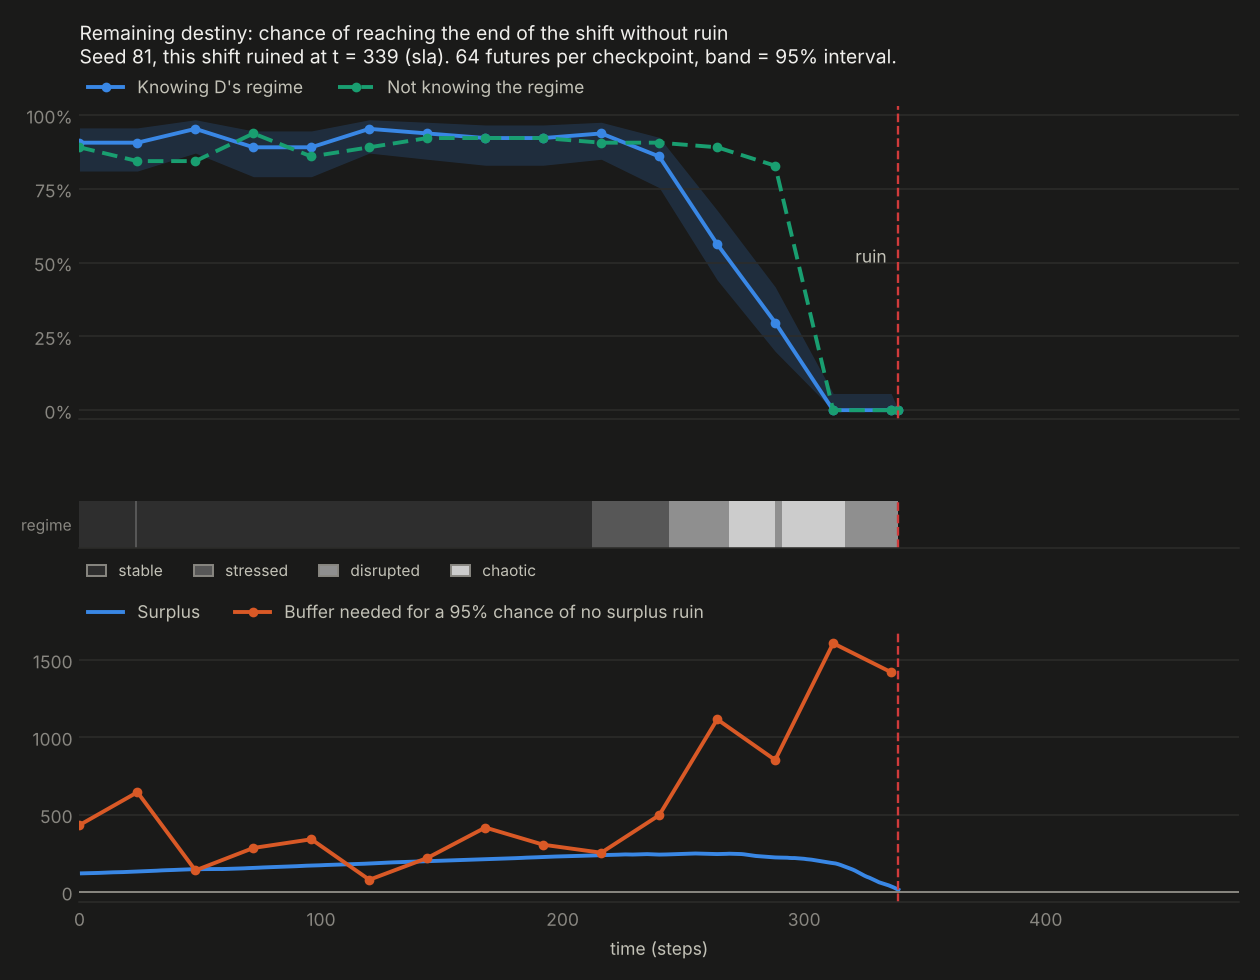
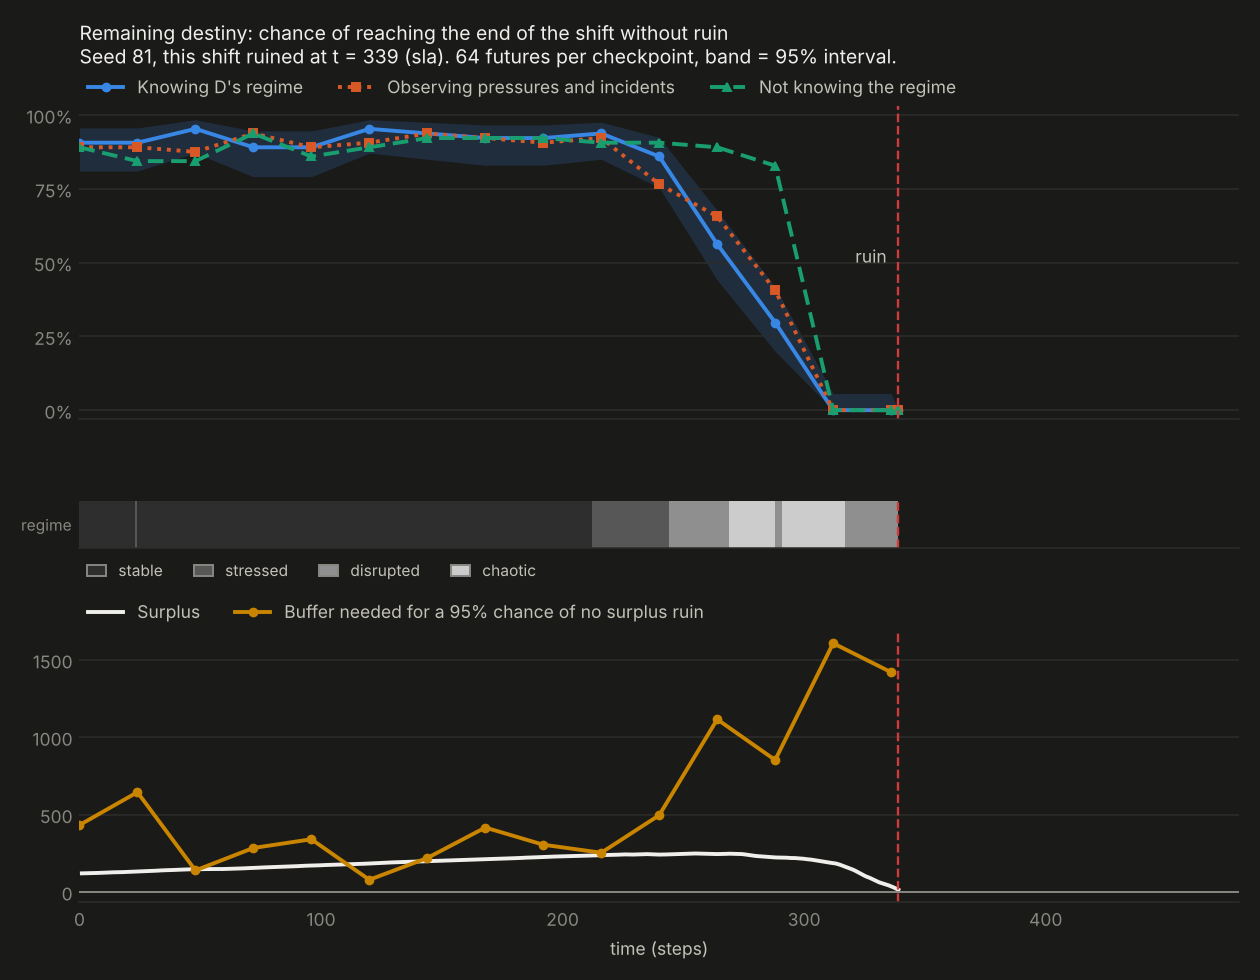
Release 0.9.0: chaotic organization, with the observer as 0.8.0
Document what the structure analysis found and release both versions.

- README: 'Chaotic Organization' with the measured results over 80 shifts
  against the memoryless version at equal mean disruption, the organization
  chart, and the steering table over 400 paths per setting. The destiny
  section now shows three views (knowing the regime, observing, knowing
  nothing) and says the seed-81 crisis was chosen to make the point.
- The regime does not change typical jams but fattens the tail: the jam
  that took a ruined shift averaged 486 cells, over half the grid. Corridors
  and persistent pressure zones do not form in this model, and steering
  reduces pile-up and loss without opening routes.
- RUIN.md records the measured organization; config_ex.md and the example
  config gain processes.avoidance and visualization.show_jams.
- Changelog entries for 0.8.0 (observer) and 0.9.0 (organization), including
  the measures I got wrong first and what corrected them; version bumped to
  0.9.0 in the package, pyproject and citation file.

Claude-Session: https://claude.ai/code/session_01DWymhUBNr4hdvSr4qznpJh

diff --git a/ruin/__init__.py b/ruin/__init__.py
@@ -1,1 +1,1 @@
-__version__ = "0.7.0"
+__version__ = "0.9.0"

diff --git a/README.md b/README.md
@@ -4,7 +4,7 @@
 
 [![Python](https://img.shields.io/badge/Python-3.11--3.14-blue.svg)](https://www.python.org/)
 [![License: MIT](https://img.shields.io/badge/License-MIT-yellow.svg)](https://opensource.org/licenses/MIT)
-[![v0.8.0](https://img.shields.io/badge/Version-v0.8.0-green.svg)](https://github.com/nezpik/ruin)
+[![v0.9.0](https://img.shields.io/badge/Version-v0.9.0-green.svg)](https://github.com/nezpik/ruin)
 
 RUIN is a research-grade framework for measuring when physical logistics systems run out of destiny. It translates quantitative finance concepts (ruin theory, jump-diffusion, Monte Carlo paths, VaR, Expected Shortfall, bootstrap confidence intervals) into a logistics language built around **physical uncertainty**, **service failure**, and **systemic collapse**.
 
@@ -212,7 +212,7 @@ Scored against what actually happened, every view beats a constant forecast (Bri
 `ruin risk` answers "how often does a shift like this ruin?". `ruin destiny` answers the question the project is named for: *how much destiny does this shift have left, right now?*
 
 ```bash
-uv run ruin destiny --config examples/urban_ruin_shift.yaml --seed 81 --blind --plot destiny.png
+uv run ruin destiny --config examples/urban_ruin_shift.yaml --seed 81 --blind --observer --incidents --plot destiny.png
 ```
 
 It follows one shift. Every 24 steps it freezes the exact present (every Q dot, every cell of the disruption field, the surplus, the SLA window, the hidden regime) and plays 64 independent futures forward from it. The share that reach the end of the shift without ruin is the shift's **remaining destiny** at that moment:
@@ -225,9 +225,60 @@ destiny(t) = P(no ruin before the horizon | everything known at t)
 
 This shift ran calm for over 200 steps at about 90% destiny. Then the regime escalated, from stressed to disrupted to chaotic, and the destiny fell to 56% at step 264 and 30% at step 288, then to nothing, and the shift ruined at step 339 by breaching the SLA. Look at the bottom panel: **surplus was at its highest (245) when the crisis began**. A surplus chart sees nothing wrong until it is too late; the buffer the shift would have needed for a 95% chance of safety jumped from about 250 to over 1,100.
 
-The `--blind` curve is destiny for someone who knows everything about D except which regime it is in (the regime is redrawn from its long-run mix). At step 264 it still says 89%, against 56% for someone who knows the regime, and at step 288 it says 83% against 30%. The gap is what knowing the regime is worth. An observer who sees the pressures sits between the two curves: in this shift the D-state label read CHAOTIC at step 264, a regime ahead of the truth.
+The chart shows three views of the same shift. The solid curve knows everything about D, including the hidden regime. The dotted curve is an observer who sees the pressures and an incident log (see [the observer](#seeing-the-regime-the-observer)). The dashed curve knows everything except the regime, which it redraws from its long-run mix. At step 264 the three say 56%, 66%, and 89%; at step 288, 30%, 41%, and 83%. The gap between the solid and dashed curves is what knowing the regime is worth, and the dotted curve shows how much of it can be had by watching.
+
+This is a crisis chosen to make the point. Over 32 unselected shifts the observer closes about a third of that gap in severe regimes, not the three quarters it appears to here.
 
 At `t = 0` the remaining destiny is one minus the ruin probability, so the two commands cross-check each other.
+
+---
+
+## Chaotic Organization
+
+Disruption is not only disorder. Blocked regions form, persist, merge, and clear; Q dots pile up in them; loss concentrates in them. `ruin organize` measures that structure.
+
+```bash
+uv run ruin organize --config examples/urban_ruin_shift.yaml                                     # a typical shift
+uv run ruin organize --config examples/urban_ruin_shift.yaml --seed 81 --plot organization.png   # one shift
+```
+
+![Organization of one shift](docs/organization_seed81.png)
+
+A **jam** is a connected region where disruption blocks at least half a cell (at least three cells). Jams are tracked from step to step, so each has a birth, a lifetime, a peak, merges and splits, and a record of the Q dots and loss that passed through it. Around them the recorder measures **pile-up** (Q-dot density inside jams over the same cells' own baseline), **diversion** (flow beside jams, which is not density: Q dots also queue there), **corridors** (persistent excess flow beside jams, kept only if it is statistically significant and at least three cells long), **pressure zones** and whether they stay put, **recovery** after a jam clears, and **ruin zones**: where loss concentrates and which jam carried it before ruin. Every comparison uses each cell's own quiet-step baseline, so the geometry of `D` is not mistaken for organization.
+
+Over 80 shifts, with the memoryless version of the scenario matched to the same realised mean disruption (± is the standard error across shifts):
+
+| | Memoryless disruption | Hidden regime (the reference) |
+| --- | --- | --- |
+| Jams born per 100 steps | 33.9 ± 0.2 | 31.0 ± 0.4 |
+| Median jam lifetime (steps) | 9.8 ± 0.1 | 9.0 ± 0.1 |
+| Largest jam in a shift (cells of 900) | 161 ± 4 | 230 ± 16 |
+| Q-dot pile-up inside jams (× baseline density) | 2.14 ± 0.01 | 2.21 ± 0.01 |
+| Flow beside jams (× baseline flow) | 0.92 ± 0.00 | 0.91 ± 0.00 |
+| Share of loss accrued inside jams | 48% | 53% |
+| Corridors per shift | 0.03 | 0.00 |
+| Do pressure hotspots stay put? (correlation between halves) | 0.11 | 0.12 |
+
+What it shows:
+
+- **Jams are everywhere and cheap to form.** About one new jam every three steps, living nine steps, occupying about a tenth of cell-steps and carrying over half the loss (five times what their size would suggest).
+- **The regime does not change typical jams. It fattens the tail.** Jam counts, lifetimes, pile-up, and recovery are the same in both worlds. What differs is the largest jam: 230 cells against 161. In the seven ruined shifts, the jam that took the shift averaged 486 cells, over half the grid, carried 57% (± 7%) of the loss in the 24 steps before ruin, and was born in a disrupted or chaotic regime in six of seven. Ruin here is not many local jams adding up; it is one system-wide gridlock.
+- **There is no spatial organization beyond jams.** Flow beside a jam is about 9% below baseline (Q dots queue, they do not funnel), corridors do not form, and pressure hotspots do not persist between the halves of a shift (correlation 0.12). Shocks land uniformly and trips are monotone, so there is nothing to route around and nowhere to route to. Corridors and persistent zones need real topology.
+- **Jams clear in about eight steps from their peak**, and Q dots flow back into the cleared cells at 1.45 times the usual density: a re-entry surge.
+- **Cause and effect are separated in time.** Delay is attributed to the origin of the disruption (each hidden regime, or feedback from late Q dots; the origins add up exactly to the field). Pooled over the shifts: stable 53%, stressed 25%, disrupted 15%, chaotic 8%, feedback 0.05%. But the loss accrues in different proportions (stable 34%, stressed 17%, disrupted 35%, chaotic 14%): the disrupted and chaotic regimes are 9% of the time, 22% of the delay, and 49% of the loss, because lateness compounds. Feedback from late Q dots is negligible at the configured weight.
+
+### Steering is worth something, though not routes
+
+`processes.avoidance` lets a Q dot weight its two forward moves by how blocked the next cell on each axis is (0 is the old behaviour). Over 400 paths each:
+
+| Steering (`processes.avoidance`) | Ruin probability (95% interval) | Mean loss (95% interval) | Expected shortfall | Pile-up inside jams |
+| --- | --- | --- | --- | --- |
+| 0 | 15.5% (12.3 to 19.4) | 183 (157 to 213) | 1267 | 2.22 |
+| 1 | 14.2% (11.2 to 18.0) | 155 (136 to 180) | 981 | 2.10 |
+| 3 | 12.8% (9.8 to 16.4) | 131 (112 to 150) | 803 | 1.81 |
+| 8 | 9.5% (7.0 to 12.8) | 104 (87 to 124) | 836 | 1.52 |
+
+Steering cuts pile-up and loss steadily: at the strongest setting mean loss falls by 43% (intervals 87 to 124 against 157 to 213) and ruin falls from 15.5% to 9.5%, though the ruin intervals overlap and it is the monotone trend across four settings that persuades. It does not open routes: flow beside jams stays between 0.90 and 0.95 of baseline and corridors stay at zero, because a Q dot with monotone trips can choose between its two forward moves but cannot detour. What steering buys is not getting stuck in a jam. This is rerouting with perfect local information at no cost; a real operator has delay and incomplete information, which is where the observer comes in.
 
 ---
 
@@ -371,7 +422,7 @@ Full definitions and deeper philosophy are in `RUIN.md`.
 
 ---
 
-## Current Architecture (v0.8.0)
+## Current Architecture (v0.9.0)
 
 ```
 ruin/
@@ -383,6 +434,11 @@ ruin/
 │   ├── probability_square.py   # Main engine: Q dots as arrays, one step of D
 │   ├── disruption_field.py     # Subcritical spread-and-decay field
 │   └── regime.py               # The hidden regime of D
+├── inference/
+│   └── observer.py             # Bayes filter over the hidden regime
+├── analysis/
+│   ├── organization.py         # Jam tracking, pile-up, corridors, zones, ruin zones
+│   └── report.py               # Aggregate report and the organization chart
 ├── simulation/
 │   └── agent_based.py
 ├── risk/
@@ -471,7 +527,7 @@ If you use RUIN, its concepts, terminology, code, or experimental outputs in aca
 
 Suggested citation:
 
-> Zouiti, Naji. RUIN: Ruin-probability Unified In Networks. v0.8.0, 2026.  
+> Zouiti, Naji. RUIN: Ruin-probability Unified In Networks. v0.9.0, 2026.  
 > GitHub: https://github.com/nezpik/ruin
 
 BibTeX:
@@ -481,7 +537,7 @@ BibTeX:
   author = {Zouiti, Naji},
   title = {RUIN: Ruin-probability Unified In Networks},
   year = {2026},
-  version = {0.8.0},
+  version = {0.9.0},
   url = {https://github.com/nezpik/ruin}
 }
 ```

diff --git a/CHANGELOG.md b/CHANGELOG.md
@@ -7,6 +7,164 @@ and this project adheres to [Semantic Versioning](https://semver.org/spec/v2.0.0
 
 ---
 
+## [0.9.0] - 2026-11
+
+**Chaotic organization**: the structure that forms when Q dots try to keep
+order in a chaotic D is now measured, with the findings that came out of it,
+an opt-in steering lever, and exact attribution of delay by origin. Everything
+new is off by default and the 0.8.0 model is reproduced exactly when it is.
+
+### Added
+
+- **`ruin organize`** (`ruin/analysis/organization.py`, `report.py`): a
+  `StructureRecorder` that watches the engine and measures
+  - **jams** (connected regions where disruption blocks at least half a cell, at
+    least three cells), tracked step to step with birth, lifetime, merges,
+    splits, peak extent, and the Q dots and loss that passed through them;
+  - **pile-up** (Q-dot density inside jams over each cell's own baseline);
+  - **diversion** and **corridors**, measured on *flow* rather than density
+    (Q dots also queue beside a jam, and queueing is not diversion), with a
+    significance test and a minimum of three cells;
+  - **pressure zones** and whether they persist between the halves of a shift;
+  - **recovery** (steps from peak to clear, flow back into cleared cells);
+  - **ruin zones** (loss concentration, the share accrued inside jams, and which
+    jam carried the loss in the 24 steps before ruin).
+
+  Every comparison uses a per-cell baseline from quiet steps (no jam within two
+  cells and none in the last eight steps), so the geometry of `D` is not read as
+  organization. `--plot` draws one shift: the jam timeline with the hidden
+  regime, where loss accrued with the ruin jam outlined, and cause against
+  effect. `run_trajectory` takes `recorder=`; `result["structure"]` holds the
+  summary.
+- **`processes.avoidance`** (default 0): a Q dot weights its two forward moves by
+  `exp(-avoidance * how blocked the next cell on that axis is)`. Bit-for-bit the
+  old model at 0.
+- **Attribution of delay by origin** (`run_trajectory(attribute_sources=True)`): a
+  parallel field per origin of disruption (each hidden regime level, or one
+  exogenous origin without regimes, plus feedback from late Q dots). The field
+  dynamics are linear, so the origins add up exactly to the field (tested every
+  step). Each step's field-induced delay is split among them by their share of
+  the intensity where each Q dot stands.
+- `loss_by_regime` (loss accrued while D was in each regime), always reported
+  when regimes are on.
+- `visualization.show_jams` outlines jams in the animation.
+- `ProbabilitySquare.fork` carries the origin fields.
+
+### What the analysis showed
+
+Over 80 shifts, against the memoryless version of the scenario matched to the
+same realised mean disruption:
+
+- **The regime does not change typical jams. It fattens the tail.** Jams born per
+  100 steps 31.0 against 33.9, median lifetime 9.0 against 9.8 steps, pile-up
+  2.21 against 2.14, recovery the same. The largest jam in a shift is 230 cells
+  against 161. In the seven ruined shifts the jam that took the shift averaged
+  486 cells (over half the grid), carried 57% (standard error 7%) of the loss in
+  the 24 steps before ruin, and was born in a disrupted or chaotic regime in six
+  of seven. Ruin here is one system-wide gridlock, not many local jams.
+- **Jams carry half the loss in a tenth of the space**: 53% of loss accrues
+  inside jam cells, which are about 11% of cell-steps (enrichment 5.0).
+- **There is no spatial organization beyond jams.** Flow beside jams is 0.91 of
+  baseline (Q dots queue, they do not funnel), no corridors form, and pressure
+  hotspots do not persist (correlation between halves 0.12). Shocks land
+  uniformly and trips are monotone.
+- **Cause and effect are separated in time.** Delay by origin: stable 53%,
+  stressed 25%, disrupted 15%, chaotic 8%, feedback 0.05%. Loss by regime when
+  it accrued: 34%, 17%, 35%, 14%. The disrupted and chaotic regimes are 9% of the
+  time, 22% of the delay, and 49% of the loss, because lateness compounds.
+  Feedback from late Q dots is negligible at the configured weight.
+- **Steering buys not getting stuck, not routes.** Over 400 paths per setting,
+  avoidance 0, 1, 3, 8: pile-up 2.22, 2.10, 1.81, 1.52; mean loss 183, 155, 131,
+  104 (a 43% fall, intervals 87 to 124 against 157 to 213); ruin probability
+  15.5%, 14.2%, 12.8%, 9.5% (intervals overlap; the monotone trend is the
+  evidence). Flow beside jams stays between 0.90 and 0.95 and corridors stay at
+  zero.
+
+### Process notes
+
+- The tests caught two flaws in my own measures. The baseline first included the
+  steps right after a jam clears, when traffic surges back, which inflated it and
+  understated the surge (1.47 instead of about 1.9); and a "null" hotspot test
+  that wandered inside a patch was correlated through geometry.
+- The first diversion and corridor measures used density and reported about 50
+  one- and two-cell "corridors" per shift, none distinguishable from chance, and
+  diversion did not respond to steering. Moving to flow, adding a significance
+  test, and requiring three cells gave a detector that says "none" when there is
+  none.
+
+### Known limits
+
+- Corridors and persistent pressure zones cannot form here: shocks are uniform,
+  trips are monotone, and a Q dot cannot detour. They need real topology.
+- Steering is perfect local information at no cost.
+- `shock_types` stays reserved: types have no mechanics, so attributing to them
+  would be arbitrary. Attribution is by hidden regime and by feedback.
+- Attribution splits *delay*, not loss, which is a nonlinear function of delay.
+
+---
+
+## [0.8.0] - 2026-11
+
+**The observer**: a calibrated Bayes filter over the hidden regime, so that
+anything triggered on what can be seen is evaluated honestly instead of on the
+true regime.
+
+### Added
+
+- **`ruin/inference/observer.py`**: an exact Bayes filter over the four regimes.
+  The chain's transitions depend only on pressures the observer sees, so the
+  prediction step is exact. The pressure likelihood is a per-regime
+  Markov-switching VAR(3) of log chaos pressure and order pressure, fitted by
+  least squares on simulated shifts with known regimes. An optional incident feed
+  (shocks per step) adds an exact Poisson likelihood.
+- **`ruin observer`** fits the filter and scores it against the true regime on
+  held-out shifts: log score, Brier, calibration, and precision, recall, and
+  detection delay for the flag "disrupted or worse", against the stationary prior
+  and the D-state label.
+- **`ruin destiny --observer [--incidents]`** adds a third destiny view (the
+  observer's), between knowing the regime and knowing nothing. Rows gain
+  `regime_posterior` and `destiny_observer`.
+- `ProbabilitySquare.redraw_regime(probabilities)`.
+- The destiny chart draws all three views with distinct line styles and markers
+  (colour-vision separation of the palette passes the validator).
+
+### What the analysis showed
+
+- **The first version was worse than ignoring the pressures.** One lag and an
+  untempered likelihood gave a log score of -0.80 against -0.77 for the
+  stationary prior, and "96% disrupted or worse" came true 71% of the time:
+  successive readings are not independent given the regime, because the field
+  remembers. Three lags, a likelihood temperature (0.4) chosen on held-out
+  shifts, and a per-regime log-odds bias (the filter over-weighted the severe
+  regimes) fixed it.
+- **On 80 held-out shifts** (38,000 steps): log score -0.541 against -0.750 for
+  the prior, Brier 0.299 against 0.393, mid-range calibration gap 0.043 (0.16
+  before the bias). With an incident feed -0.474, 0.262, and 0.024. At the same
+  recall as the D-state label (0.57), the filter flags disrupted-or-worse spells
+  with precision 0.71 (0.79 with incidents) against 0.48. At a plain 50% cut-off
+  it notices the start of a spell later than the label (about 10 steps against
+  2.5) in exchange for far fewer false alarms.
+- **An observer recovers about a third of what a clairvoyant knows.** Over 32
+  unselected shifts (6 ruined), in the checkpoints where the true regime was
+  disrupted or chaotic, the observer closes 31% (95% interval 14% to 43%) of the
+  gap between knowing nothing about the regime and knowing it, and 36% (21% to
+  47%) with incidents. Against realised ruin, every view beats a constant
+  forecast (Brier 0.080 knowing the regime, 0.086 with incidents, 0.090 from
+  pressures, 0.091 knowing nothing, 0.109 constant), but the observer cannot be
+  separated from knowing nothing with six ruined shifts.
+
+### Known limits
+
+- The emission model is fitted with the true regime labels, which a real
+  operator never has; a real filter would fit on unlabelled history and should do
+  somewhat worse.
+- An observer is fitted to one scenario and filters with that scenario's regime
+  model.
+- The bias correction is applied only once pressure evidence has entered the
+  belief, so the belief at step 0 is exactly the prior.
+
+---
+
 ## [0.7.0] - 2026-11
 
 **A regime-driven D**: disruption now has structure. D has a hidden regime that

diff --git a/RUIN.md b/RUIN.md
@@ -4,11 +4,11 @@
 
 [![Python](https://img.shields.io/badge/Python-3.11--3.14-blue.svg)](https://www.python.org/)
 [![License: MIT](https://img.shields.io/badge/License-MIT-yellow.svg)](https://opensource.org/licenses/MIT)
-[![v0.7.0](https://img.shields.io/badge/Version-v0.7.0-green.svg)](https://github.com/nezpik/ruin)
+[![v0.9.0](https://img.shields.io/badge/Version-v0.9.0-green.svg)](https://github.com/nezpik/ruin)
 
 RUIN is a framework for measuring and visualizing logistics systems as stochastic risk-bearing portfolios. It translates quantitative finance concepts such as Cramér-Lundberg ruin theory, jump diffusion, geometric Brownian motion, Monte Carlo paths, VaR, and Expected Shortfall into a logistics language built around physical uncertainty, service failure, and systemic collapse.
 
-> **Status (v0.7)**: This document is the conceptual foundation and north star. The engine now implements it with completable Q dots, a decaying disruption field, and a risk layer validated against classical ruin theory. Where the implemented formulas differ from the first sketches below, the section "Formulas as implemented" says how.
+> **Status (v0.9)**: This document is the conceptual foundation and north star. The engine now implements it with completable Q dots, a decaying disruption field, and a risk layer validated against classical ruin theory. Where the implemented formulas differ from the first sketches below, the section "Formulas as implemented" says how.
 
 The central object is the **Probability Square**: an abstract two-dimensional destiny frame `D` where many **Q dots** move through possible physical futures. RUIN is not trying to make logistics look deterministic, and it is not trying to predict destiny perfectly. RUIN frames chaos so that physical uncertainty can move, take shape, and become measurable.
 
@@ -80,6 +80,8 @@ Examples include:
 - congestion pressure zones,
 - recovery pockets after disruption decay,
 - and ruin zones where order pressure can no longer overcome chaos pressure.
+
+As measured (v0.9, `ruin organize`): jams, the first of these structures, are everywhere. About one forms every three steps, lives nine, occupies a tenth of cell-steps, and carries over half the loss. The hidden regime does not change typical jams but fattens the tail: ruin comes from one system-wide gridlock averaging over half the grid, not from many local jams adding up. Q dots pile up in jams and queue beside them; they do not funnel past them. Corridors and persistent pressure zones do not form in this model, because shocks land uniformly and trips are monotone, so they are left for a model with real topology. Where Q dots can steer (`processes.avoidance`), they get stuck less, but still open no routes.
 
 ### D-state transition
 

diff --git a/config_ex.md b/config_ex.md
@@ -59,6 +59,7 @@ processes:
   jump_intensity: 0.05       # per-Q-dot rate of sudden setbacks
   jump_mean_size: 2.0        # mean setback, in cells of lost progress
   jump_size_distribution: exponential
+  avoidance: 0.0             # how strongly Q dots steer around blocked cells (0 = not at all)
 
 probability_square:
   base_risk_intensity: 0.0
@@ -137,6 +138,7 @@ visualization:
   show_qdot_types: true
   show_ruin_event: true
   show_disruption_field: true
+  show_jams: true
   show_d_state: true
   show_order_chaos_pressure: true
   heatmap_field: disruption_intensity
@@ -148,7 +150,10 @@ visualization:
 - `qdots` defines the initial population and the per-type time window, delay
   penalty, speed, and on-time completion reward. New arrivals use the same mix.
 - `processes` defines demand arrivals and the jump-diffusion that moves each
-  Q dot toward its destination.
+  Q dot toward its destination. `avoidance` lets a Q dot steer around
+  blocked cells: it weights its two forward moves by `exp(-avoidance * how blocked
+  the next cell on that axis is)`, so 0 is the old behaviour. It cuts pile-up in
+  jams but opens no routes, because trips stay monotone.
 - `probability_square.regime` defines the hidden regime of D: a four-level chain
   (stable, stressed, disrupted, chaotic) that generates disruption. `escalate` and
   `relax` are per-step chances of moving up from level k and down to level k;
@@ -175,7 +180,7 @@ visualization:
 - `risk` defines the Monte Carlo path count and confidence level, and
   `parameter_uncertainty`: how well each parameter is known (relative
   standard deviation by dotted path; `*` stands for every Q-dot type).
-- `visualization` defines what the GIF shows: the heatmap quantity
+- `visualization` defines what the GIF shows (`show_jams` outlines the jams): the heatmap quantity
   (`disruption_intensity`, `chaos_pressure`, `order_pressure`, or
   `accumulated_loss`), the number
   of frames spread over the shift, and which overlays are drawn.
